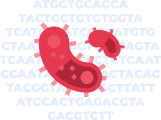
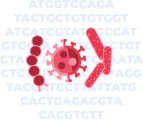
Adjust home page for covid

diff --git a/src/modules/home/components/HomeBacteria.vue b/src/modules/home/components/HomeBacteria.vue
@@ -14,7 +14,7 @@
           >
           <figcaption>
             <h1 class="display-1 font-weight-medium mb-2 mt-3">
-              {{ bacterium.name }}
+              {{ $t(`home.bacteria.${bacterium.name}`) }}
             </h1>
             <p class="title font-italic font-weight-regular mb-1">
               {{ bacterium.scientificName }}

diff --git a/src/modules/shared/store/state.ts b/src/modules/shared/store/state.ts
@@ -32,8 +32,8 @@ const state: SharedState = {
     Bacteria.fromJson({
       image: 'bacteria/covid.png',
       name: 'COVID',
-      origin: 'World Wide Database',
-      scientificName: 'Sars-Cov-2',
+      origin: 'Brazilian Database',
+      scientificName: 'COVID19',
       type: 'CV_19',
     }),
   ],

diff --git a/src/sass/variables.scss b/src/sass/variables.scss
@@ -11,8 +11,8 @@ $btn-font-weight: bold;
 $btn-text-transform: lowercase;
 $btn-sizes: (
   'x-small': 20,
-  'small': 26,
-  'default': 32,
+  'small': 28,
+  'default': 36,
   'large': 50,
   'x-large': 58
 );
